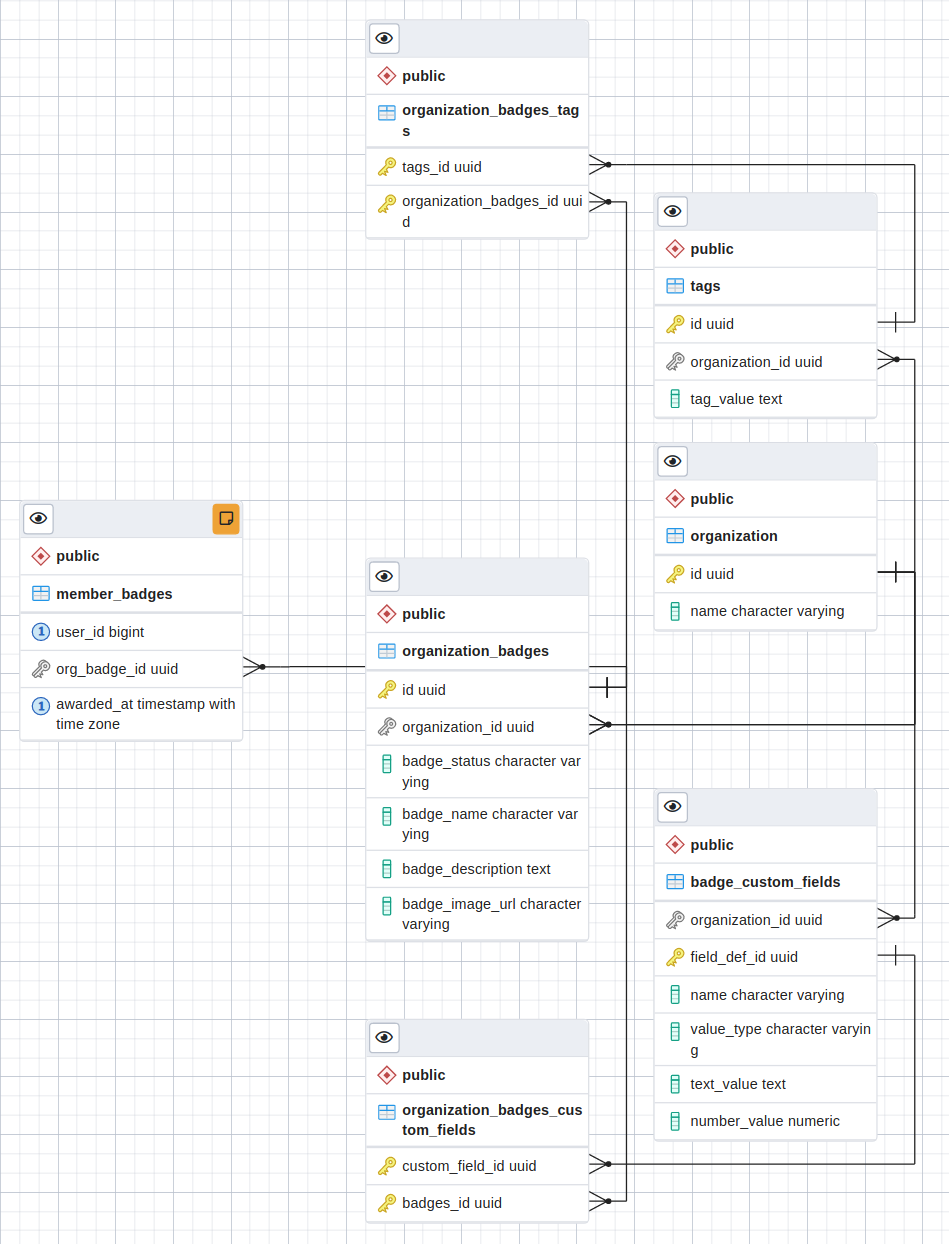
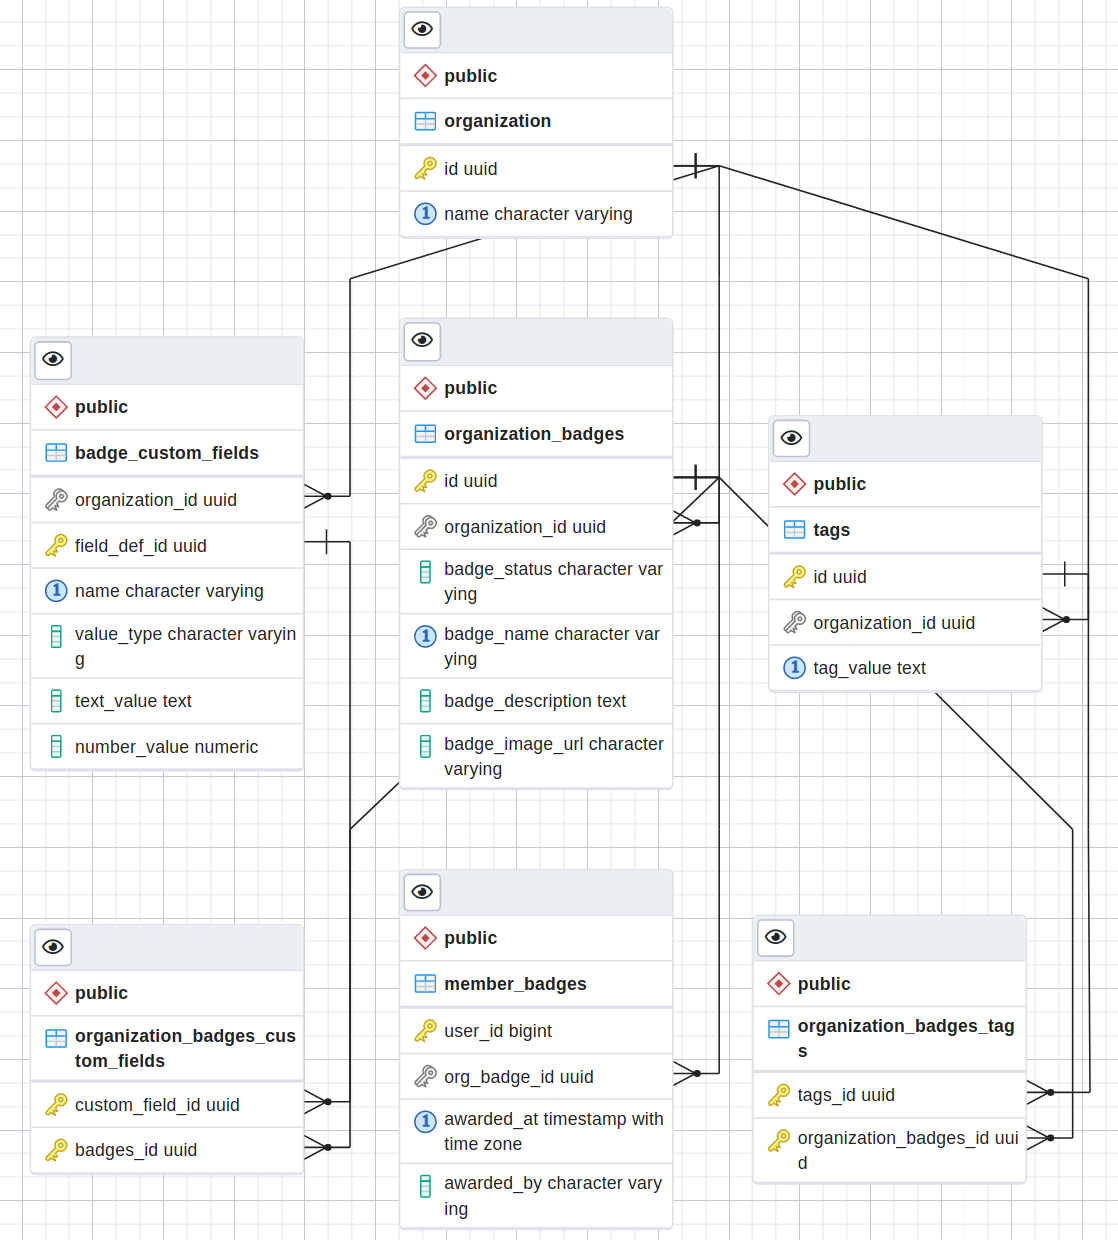
db model changes

diff --git a/src/db/models/member_badges.ts b/src/db/models/member_badges.ts
@@ -6,6 +6,7 @@ export interface member_badgesAttributes {
   user_id: number;
   org_badge_id: string;
   awarded_at: Date;
+  awarded_by: string;
 }
 
 export type member_badgesPk = 'user_id';
@@ -16,6 +17,7 @@ export class member_badges extends Model<member_badgesAttributes, member_badgesC
   user_id!: number;
   org_badge_id!: string;
   awarded_at!: Date;
+  awarded_by!: string;
 
   // member_badges belongsTo organization_badges via org_badge_id
   org_badge!: organization_badges;
@@ -45,6 +47,10 @@ export class member_badges extends Model<member_badgesAttributes, member_badgesC
           type: DataTypes.DATE,
           allowNull: false,
           unique: 'unique_member_badge',
+        },
+        awarded_by: {
+          type: DataTypes.STRING,
+          allowNull: false,
         },
       },
       {

diff --git a/src/db/models/tags.ts b/src/db/models/tags.ts
@@ -70,6 +70,7 @@ export class tags extends Model<tagsAttributes, tagsCreationAttributes> implemen
         tag_value: {
           type: DataTypes.TEXT,
           allowNull: false,
+          unique: 'org_tag',
         },
       },
       {
@@ -78,6 +79,11 @@ export class tags extends Model<tagsAttributes, tagsCreationAttributes> implemen
         schema: 'public',
         timestamps: false,
         indexes: [
+          {
+            name: 'org_tag',
+            unique: true,
+            fields: [{ name: 'organization_id' }, { name: 'tag_value' }],
+          },
           {
             name: 'tags_pkey',
             unique: true,

diff --git a/src/db/models/badge_custom_fields.ts b/src/db/models/badge_custom_fields.ts
@@ -95,6 +95,7 @@ export class badge_custom_fields
         name: {
           type: DataTypes.STRING,
           allowNull: false,
+          unique: 'org_field',
         },
         value_type: {
           type: DataTypes.STRING,
@@ -119,6 +120,11 @@ export class badge_custom_fields
             name: 'badge_custom_fields_pkey',
             unique: true,
             fields: [{ name: 'field_def_id' }],
+          },
+          {
+            name: 'org_field',
+            unique: true,
+            fields: [{ name: 'organization_id' }, { name: 'name' }],
           },
           {
             name: 'unique_defs',

diff --git a/src/db/models/organization_badges.ts b/src/db/models/organization_badges.ts
@@ -138,6 +138,7 @@ export class organization_badges
         badge_name: {
           type: DataTypes.STRING,
           allowNull: false,
+          unique: 'org_badge_name',
         },
         badge_description: {
           type: DataTypes.TEXT,
@@ -154,6 +155,11 @@ export class organization_badges
         schema: 'public',
         timestamps: false,
         indexes: [
+          {
+            name: 'org_badge_name',
+            unique: true,
+            fields: [{ name: 'organization_id' }, { name: 'badge_name' }],
+          },
           {
             name: 'org_badge_pkey',
             unique: true,

diff --git a/src/db/models/organization.ts b/src/db/models/organization.ts
@@ -65,6 +65,7 @@ export class organization extends Model<organizationAttributes, organizationCrea
         name: {
           type: DataTypes.STRING,
           allowNull: false,
+          unique: 'org_name',
         },
       },
       {
@@ -73,6 +74,11 @@ export class organization extends Model<organizationAttributes, organizationCrea
         schema: 'public',
         timestamps: false,
         indexes: [
+          {
+            name: 'org_name',
+            unique: true,
+            fields: [{ name: 'name' }],
+          },
           {
             name: 'org_pkey',
             unique: true,

diff --git a/src/controllers/badges/badges.controller.ts b/src/controllers/badges/badges.controller.ts
@@ -15,7 +15,6 @@ class BadgesController {
    */
   public createNewBadge = async (req: Request | any, res: Response, next: NextFunction) => {
     try {
-      console.log('createNewBadge', req.file, req.body);
       const newBadge = await createBadge(req.body);
       // all set in db, delete the TEMP tag from image file
       // there is Lifecycle rule configured wich will clean up all TEMP uploads after 1 day
